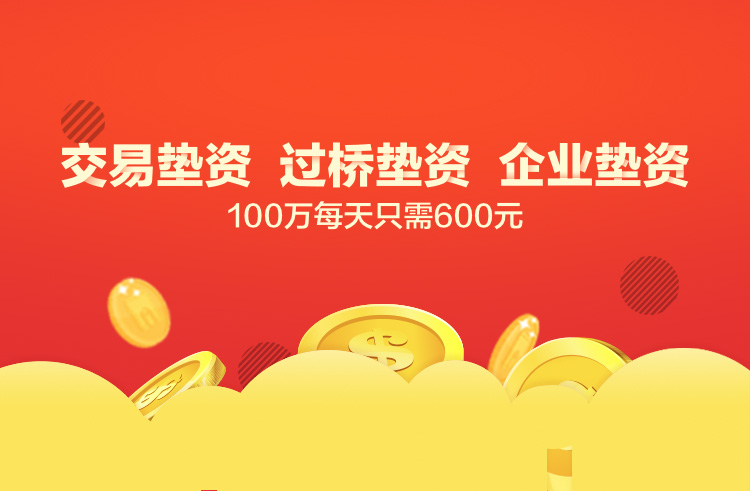
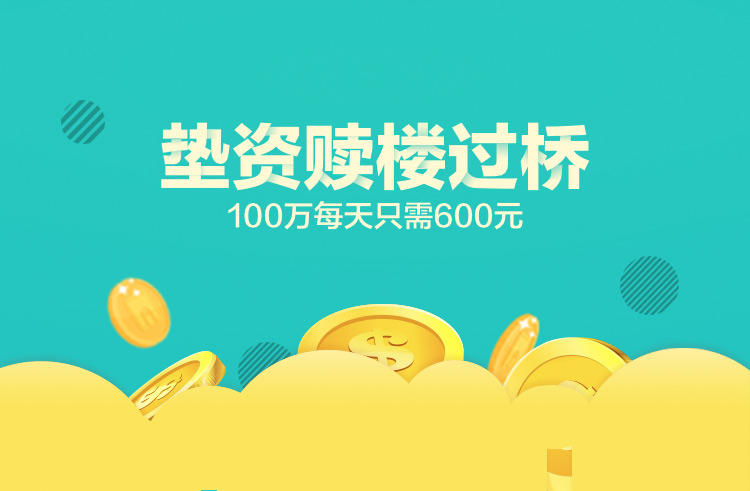
up
up

diff --git a/pc/anjiefangzaidaikuan.html b/pc/anjiefangzaidaikuan.html
@@ -36,7 +36,7 @@
 </div>
 <!-- 头部 end -->
 <!-- banner -->
-<div class="banner" style="background-image: url('images/operation/banner.jpg')">
+<div class="banner" style="background-image: url('images/operation/banner_aj.jpg')">
     <div class="slogan" style="background-image: url('images/operation/slogan_1.png')"></div>
 </div>
 <!-- 头部 end -->

diff --git a/pc/chafengfangdianzi.html b/pc/chafengfangdianzi.html
@@ -36,7 +36,7 @@
 </div>
 <!-- 头部 end -->
 <!-- banner -->
-<div class="banner" style="background-image: url('images/operation/banner.jpg')">
+<div class="banner" style="background-image: url('images/operation/banner_cf.jpg')">
     <div class="slogan" style="background-image: url('images/operation/slogan_5.png')"></div>
 </div>
 <!-- 头部 end -->

diff --git a/pc/dianzishulou.html b/pc/dianzishulou.html
@@ -36,7 +36,7 @@
 </div>
 <!-- 头部 end -->
 <!-- banner -->
-<div class="banner" style="background-image: url('images/operation/banner.jpg')">
+<div class="banner" style="background-image: url('images/operation/banner_dz.jpg')">
     <div class="slogan" style="background-image: url('images/operation/slogan_4.png')"></div>
 </div>
 <!-- 头部 end -->

diff --git a/pc/fangchandiyadaikuan.html b/pc/fangchandiyadaikuan.html
@@ -36,7 +36,7 @@
 </div>
 <!-- 头部 end -->
 <!-- banner -->
-<div class="banner" style="background-image: url('images/operation/banner.jpg')">
+<div class="banner" style="background-image: url('images/operation/banner_fc.jpg')">
     <div class="slogan" style="background-image: url('images/operation/slogan_1.png')"></div>
 </div>
 <!-- 头部 end -->

diff --git a/pc/yinhangdiyadaikuan.html b/pc/yinhangdiyadaikuan.html
@@ -36,7 +36,7 @@
 </div>
 <!-- 头部 end -->
 <!-- banner -->
-<div class="banner" style="background-image: url('images/operation/banner.jpg')">
+<div class="banner" style="background-image: url('images/operation/banner_jy.jpg')">
     <div class="slogan" style="background-image: url('images/operation/slogan_3.png')"></div>
 </div>
 <!-- 头部 end -->

diff --git a/phone/anjiefangzaidaikuan.html b/phone/anjiefangzaidaikuan.html
@@ -10,7 +10,7 @@
     <script src="js/rem.js"></script>
 </head>
 <body>
-<div class="page" style="background-image: url('images/operation/banner_fc.jpg')">
+<div class="page" style="background-image: url('images/operation/banner_aj.jpg')">
     <div class="header">
         <div class="head clearfix">
             <h1 class="fl">贝迪盈</h1>

diff --git a/phone/yinhangdiyadaikuan.html b/phone/yinhangdiyadaikuan.html
@@ -10,7 +10,7 @@
     <script src="js/rem.js"></script>
 </head>
 <body>
-<div class="page">
+<div class="page" style="background-image: url('images/operation/banner_jy.jpg')">
     <div class="header">
         <div class="head clearfix">
             <h1 class="fl">贝迪盈</h1>

diff --git a/phone/css/common.css b/phone/css/common.css
@@ -122,7 +122,7 @@ img {
     display: inline-block;
 }
 .nav > ul > li.active > a{
-    border-bottom: solid 1px #fff;
+    border-bottom: none;
 }
 .footer{
     background-color: #262626;
